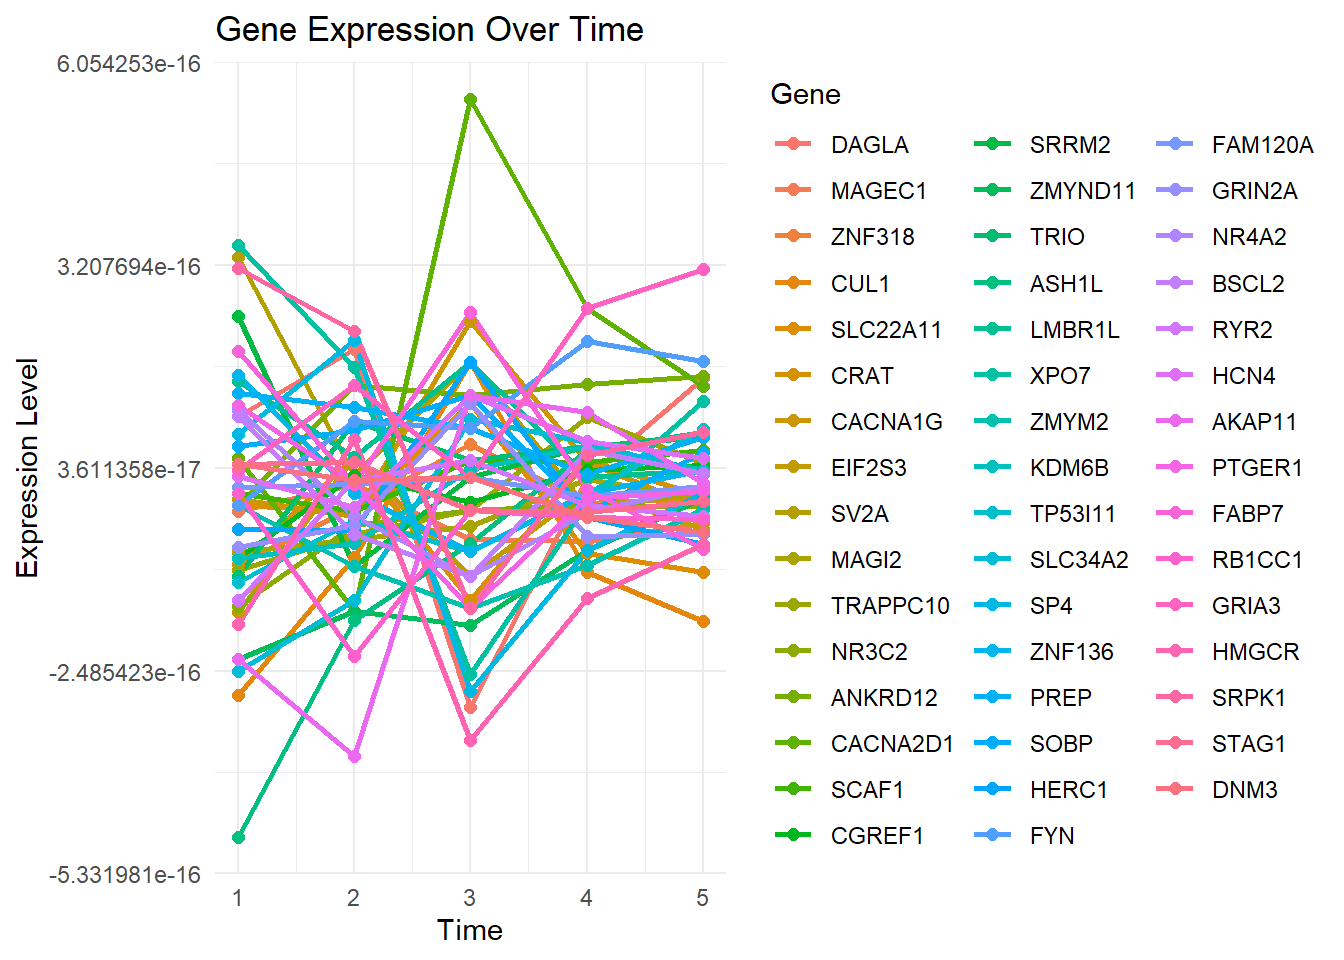
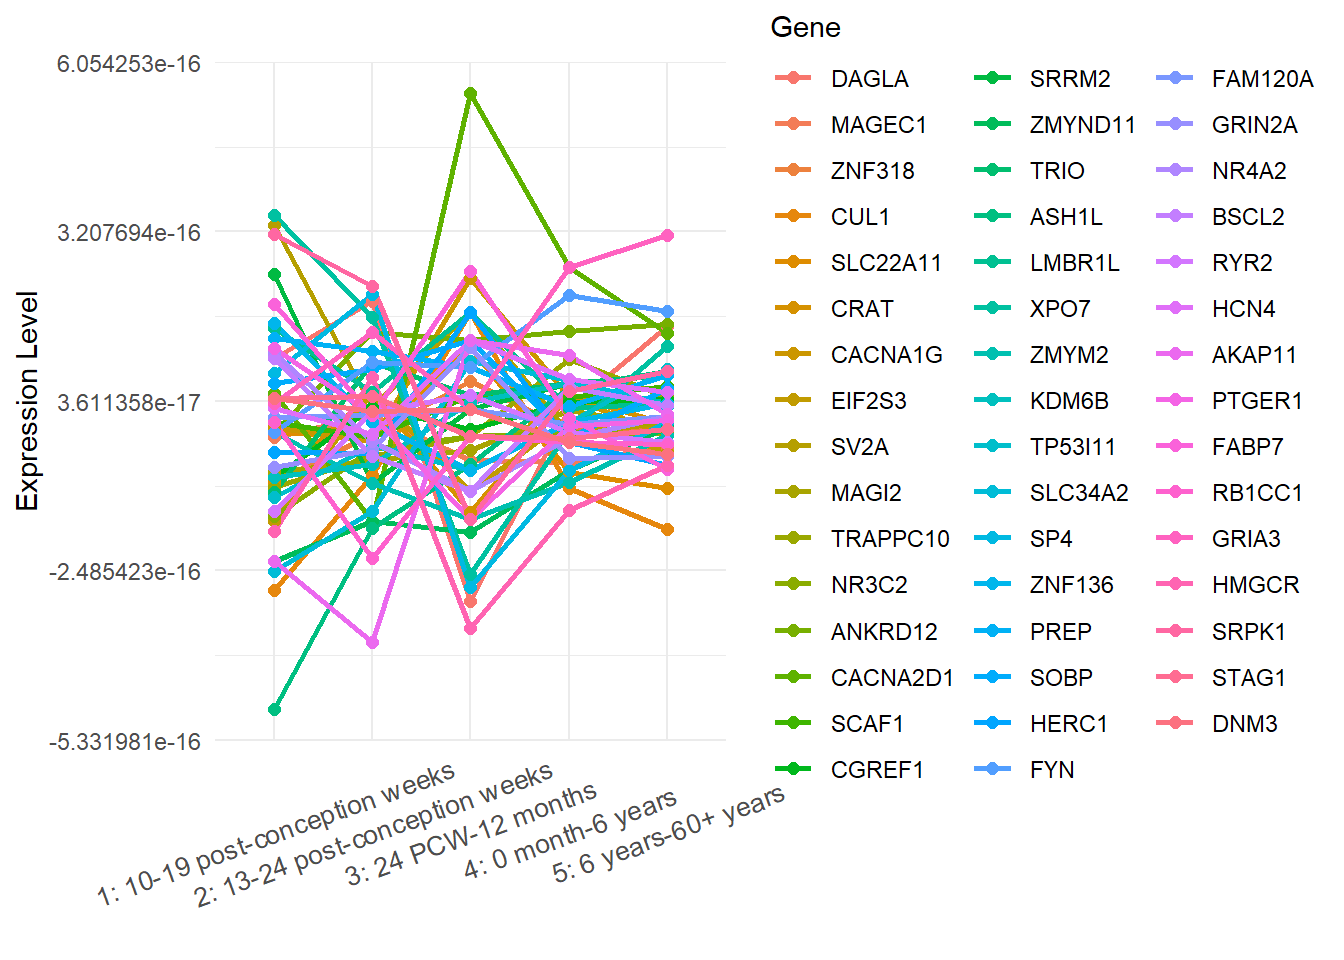
12/16/2024

diff --git a/docs/part7.html b/docs/part7.html
@@ -401,7 +401,7 @@ aria-hidden="true"></span> </a>
 <div class="tab-content">
 <div id="summary" class="tab-pane fade in active">
 <p>
-<strong>Last updated:</strong> 2024-12-09
+<strong>Last updated:</strong> 2024-12-16
 </p>
 <p>
 <strong>Checks:</strong> <span
@@ -439,10 +439,10 @@ changes </a>
 <div id="strongRMarkdownfilestronguncommittedchanges"
 class="panel-collapse collapse">
 <div class="panel-body">
-<p>The R Markdown is untracked by Git. To know which version of the R
-Markdown file created these results, you’ll want to first commit it to
-the Git repo. If you’re still working on the analysis, you can ignore
-this warning. When you’re finished, you can run
+<p>The R Markdown file has unstaged changes. To know which version of
+the R Markdown file created these results, you’ll want to first commit
+it to the Git repo. If you’re still working on the analysis, you can
+ignore this warning. When you’re finished, you can run
 <code>wflow_publish</code> to commit the R Markdown file and build the
 HTML.</p>
 </div>
@@ -561,15 +561,15 @@ data/gene_pfc35_20241203.RData
 <div class="panel panel-default">
 <div class="panel-heading">
 <p class="panel-title">
-<a data-toggle="collapse" data-parent="#workflowr-checks" href="#strongRepositoryversionstrongahrefhttpsgithubcomhan16multiomicstree09fa526775984bc16f98ab43efb2de7fd19bef5etargetblank09fa526a">
+<a data-toggle="collapse" data-parent="#workflowr-checks" href="#strongRepositoryversionstrongahrefhttpsgithubcomhan16multiomicstree804fa65725410894a1191385e2f7c53b688ded0atargetblank804fa65a">
 <span class="glyphicon glyphicon-ok text-success"
 aria-hidden="true"></span> <strong>Repository version:</strong>
-<a href="https://github.com/han16/multi_omics/tree/09fa526775984bc16f98ab43efb2de7fd19bef5e" target="_blank">09fa526</a>
+<a href="https://github.com/han16/multi_omics/tree/804fa65725410894a1191385e2f7c53b688ded0a" target="_blank">804fa65</a>
 </a>
 </p>
 </div>
 <div
[2 lines of base64/hex data omitted]
 class="panel-collapse collapse">
 <div class="panel-body">
 <p>
@@ -579,7 +579,7 @@ reproducibility.
 </p>
 <p>
 The results in this page were generated with repository version
-<a href="https://github.com/han16/multi_omics/tree/09fa526775984bc16f98ab43efb2de7fd19bef5e" target="_blank">09fa526</a>.
+<a href="https://github.com/han16/multi_omics/tree/804fa65725410894a1191385e2f7c53b688ded0a" target="_blank">804fa65</a>.
 See the <em>Past versions</em> tab to see a history of the changes made
 to the R Markdown and HTML files.
 </p>
@@ -597,20 +597,20 @@ Ignored files:
     Ignored:    .Rhistory
     Ignored:    analysis/.Rhistory
     Ignored:    analysis/SCZ_gene_list_cache/
+    Ignored:    analysis/figure/
+    Ignored:    analysis/part10_cache/
+    Ignored:    analysis/part11_cache/
     Ignored:    analysis/part1_cache/
     Ignored:    analysis/part2_cache/
     Ignored:    analysis/part3_cache/
     Ignored:    analysis/part4_cache/
     Ignored:    analysis/part5_cache/
     Ignored:    analysis/part6_cache/
-
-Untracked files:
-    Untracked:  analysis/part7.Rmd
+    Ignored:    analysis/part8_cache/
+    Ignored:    analysis/part9_cache/
 
 Unstaged changes:
-    Modified:   analysis/index.Rmd
-    Modified:   analysis/part1.Rmd
-    Modified:   analysis/part4.Rmd
+    Modified:   analysis/part7.Rmd
 
 </code></pre>
 <p>
@@ -625,10 +625,73 @@ have uncommitted changes.
 <hr>
 </div>
 <div id="versions" class="tab-pane fade">
+
 <p>
-There are no past versions. Publish this analysis with
-<code>wflow_publish()</code> to start tracking its development.
+These are the previous versions of the repository in which changes were
+made to the R Markdown (<code>analysis/part7.Rmd</code>) and HTML
+(<code>docs/part7.html</code>) files. If you’ve configured a remote Git
+repository (see <code>?wflow_git_remote</code>), click on the hyperlinks
+in the table below to view the files as they were in that past version.
 </p>
+<div class="table-responsive">
+<table class="table table-condensed table-hover">
+<thead>
+<tr>
+<th>
+File
+</th>
+<th>
+Version
+</th>
+<th>
+Author
+</th>
+<th>
+Date
+</th>
+<th>
+Message
+</th>
+</tr>
+</thead>
+<tbody>
+<tr>
+<td>
+Rmd
+</td>
+<td>
+<a href="https://github.com/han16/multi_omics/blob/877c931e793d9ac7f7013be577568934addc195d/analysis/part7.Rmd" target="_blank">877c931</a>
+</td>
+<td>
+han
+</td>
+<td>
+2024-12-09
+</td>
+<td>
+12/9/2024
+</td>
+</tr>
+<tr>
+<td>
+html
+</td>
+<td>
+<a href="https://rawcdn.githack.com/han16/multi_omics/877c931e793d9ac7f7013be577568934addc195d/docs/part7.html" target="_blank">877c931</a>
+</td>
+<td>
+han
+</td>
+<td>
+2024-12-09
+</td>
+<td>
+12/9/2024
+</td>
+</tr>
+</tbody>
+</table>
+</div>
 <hr>
 </div>
 </div>
@@ -750,18 +813,56 @@ df$Time &lt;- seq(1,5)
 # Reshape the data for plotting
 library(reshape2)
 df_melt &lt;- melt(df, id.vars = &quot;Time&quot;, variable.name = &quot;Gene&quot;, value.name = &quot;Expression&quot;)
-df_melt$Time &lt;- as.numeric(df_melt$Time)
+df_melt$Time &lt;- paste(as.numeric(df_melt$Time), c(&quot;: 10-19 post-conception weeks&quot;, &quot;: 13-24 post-conception weeks&quot;, &quot;: 24 PCW-12 months&quot;, &quot;: 0 month-6 years&quot;, &quot;: 6 years-60+ years&quot;), sep=&quot;&quot;)
 
 # Create a line plot
 ggplot(df_melt, aes(x = Time, y = Expression, color = Gene, group = Gene)) +
   geom_line(size = 1) +
   geom_point(size = 2) +
-  labs(title = &quot;Gene Expression Over Time&quot;,
-       x = &quot;Time&quot;,
+  labs(title = &quot;&quot;,
+       x = &quot;&quot;,
        y = &quot;Expression Level&quot;) +
   theme_minimal()+
+  theme(axis.text.x = element_text(angle = 20, vjust = 0.5, size=10))+
   theme(legend.position = &quot;right&quot;)  # Remove the legend</code></pre>
 <p><img src="figure/part7.Rmd/unnamed-chunk-4-1.png" width="672" style="display: block; margin: auto;" /></p>
+<p>
+<button type="button" class="btn btn-default btn-xs btn-workflowr btn-workflowr-fig" data-toggle="collapse" data-target="#fig-unnamed-chunk-4-1">
+Past versions of unnamed-chunk-4-1.png
+</button>
+</p>
+<div id="fig-unnamed-chunk-4-1" class="collapse">
+<div class="table-responsive">
+<table class="table table-condensed table-hover">
+<thead>
+<tr>
+<th>
+Version
+</th>
+<th>
+Author
+</th>
+<th>
+Date
+</th>
+</tr>
+</thead>
+<tbody>
+<tr>
+<td>
+<a href="https://github.com/han16/multi_omics/blob/877c931e793d9ac7f7013be577568934addc195d/docs/figure/part7.Rmd/unnamed-chunk-4-1.png" target="_blank">877c931</a>
+</td>
+<td>
+han
+</td>
+<td>
+2024-12-09
+</td>
+</tr>
+</tbody>
+</table>
+</div>
+</div>
 <br>
 <p>
 <button type="button" class="btn btn-default btn-workflowr btn-workflowr-sessioninfo" data-toggle="collapse" data-target="#workflowr-sessioninfo" style="display: block;">
@@ -806,20 +907,20 @@ loaded via a namespace (and not attached):
 [25] munsell_0.5.1           httpuv_1.6.15           GenomeInfoDb_1.40.0    
 [28] htmltools_0.5.8.1       sass_0.4.9              yaml_2.3.8             
 [31] later_1.3.2             pillar_1.9.0            crayon_1.5.2           
-[34] jquerylib_0.1.4         cachem_1.0.8            org.Hs.eg.db_3.19.1    
-[37] tidyselect_1.2.1        digest_0.6.35           stringi_1.8.4          
-[40] dplyr_1.1.4             labeling_0.4.3          rprojroot_2.0.4        
-[43] fastmap_1.1.1           grid_4.4.0              colorspace_2.1-0       
-[46] cli_3.6.2               magrittr_2.0.3          utf8_1.2.4             
-[49] withr_3.0.0             UCSC.utils_1.0.0        scales_1.3.0           
-[52] promises_1.3.0          bit64_4.0.5             rmarkdown_2.26         
-[55] XVector_0.44.0          httr_1.4.7              bit_4.0.5              
-[58] workflowr_1.7.1         png_0.1-8               memoise_2.0.1          
-[61] evaluate_0.23           knitr_1.46              IRanges_2.38.0         
-[64] rlang_1.1.3             Rcpp_1.0.12             glue_1.7.0             
-[67] DBI_1.2.3               BiocGenerics_0.50.0     rstudioapi_0.16.0      
-[70] jsonlite_1.8.8          plyr_1.8.9              R6_2.5.1               
-[73] fs_1.6.4                zlibbioc_1.50.0        </code></pre>
+[34] jquerylib_0.1.4         whisker_0.4.1           cachem_1.0.8           
+[37] org.Hs.eg.db_3.19.1     tidyselect_1.2.1        digest_0.6.35          
+[40] stringi_1.8.4           dplyr_1.1.4             labeling_0.4.3         
+[43] rprojroot_2.0.4         fastmap_1.1.1           grid_4.4.0             
+[46] colorspace_2.1-0        cli_3.6.2               magrittr_2.0.3         
+[49] utf8_1.2.4              withr_3.0.0             UCSC.utils_1.0.0       
+[52] scales_1.3.0            promises_1.3.0          bit64_4.0.5            
+[55] rmarkdown_2.26          XVector_0.44.0          httr_1.4.7             
+[58] bit_4.0.5               workflowr_1.7.1         png_0.1-8              
+[61] memoise_2.0.1           evaluate_0.23           knitr_1.46             
+[64] IRanges_2.38.0          rlang_1.1.3             Rcpp_1.0.12            
+[67] glue_1.7.0              DBI_1.2.3               BiocGenerics_0.50.0    
+[70] rstudioapi_0.16.0       jsonlite_1.8.8          plyr_1.8.9             
+[73] R6_2.5.1                fs_1.6.4                zlibbioc_1.50.0        </code></pre>
 </div>
 </div>
 
